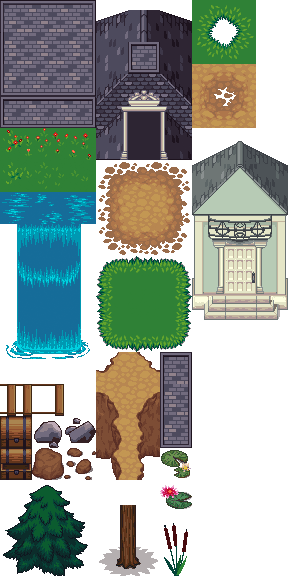
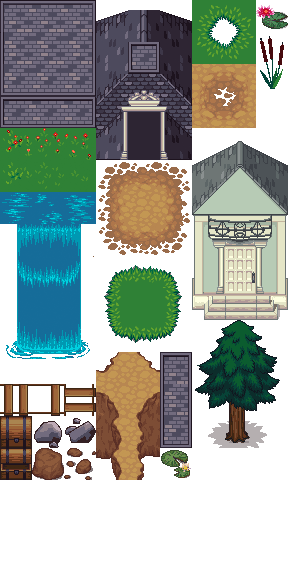
update asset and level 1 content

diff --git a/constants.js b/constants.js
@@ -63,30 +63,26 @@ const BACKGROUND_TILES = {
   36: [3, 4],
   37: [5, 4],
   38: [5, 14],
-  39: [0, 15],
-  40: [1, 15],
-  41: [2, 15],
-  42: [0, 16],
-  43: [1, 16],
-  44: [2, 16],
-  45: [0, 17],
-  46: [1, 17],
-  47: [2, 17],
-  48: [3, 15],
-  49: [4, 15],
-  50: [3, 16],
-  51: [4, 16],
-  52: [3, 17],
-  53: [4, 17],
-  54: [5, 15],
-  55: [5, 16],
-  56: [5, 17],
-  57: [3, 12],
-  58: [4, 12],
-  59: [3, 13],
-  60: [4, 13],
-  61: [5, 13],
-  62: [4, 13],
+  39: [1, 12],
+  40: [8, 0],
+  41: [8, 1],
+  42: [8, 2],
+  43: [3, 5],
+  44: [4, 5],
+  45: [5, 5],
+  46: [3, 6],
+  47: [5, 6],
+  48: [3, 7],
+  49: [4, 7],
+  50: [5, 7],
+  51: [3, 8],
+  52: [4, 8],
+  53: [5, 8],
+  54: [3, 9],
+  55: [5, 9],
+  56: [3, 10],
+  57: [4, 10],
+  58: [5, 10],
   A: [0, 0],
   B: [1, 0],
   C: [2, 0],
@@ -106,27 +102,9 @@ const BACKGROUND_TILES = {
   Q: [1, 5],
   R: [2, 5],
   S: [0, 12],
-  T: [1, 12],
-  U: [2, 12],
+  T: [2, 12],
   V: [4, 4],
-  W: [3, 5],
-  X: [4, 5],
-  Y: [5, 5],
-  Z: [3, 6],
-  a: [4, 6],
-  b: [5, 6],
-  c: [3, 7],
-  d: [4, 7],
-  e: [5, 7],
-  f: [3, 8],
-  g: [4, 8],
-  h: [5, 8],
-  i: [3, 9],
-  j: [4, 9],
-  k: [5, 9],
-  l: [3, 10],
-  m: [4, 10],
-  n: [5, 10],
+  W: [4, 6],
   o: [5, 11],
   p: [5, 12],
   q: [5, 13],
@@ -143,13 +121,13 @@ const BACKGROUND_TILES = {
 };
 
 const LEVELS = [
-  "0,m 2,m 1,m 0,m 2,n 0 2 1 0 1 2 0,Z a a a\n" +
-    "2 0 1 2 0,38 1 2 0 1 2 0 1,Z a a a a a\n" +
-    "0,g 1,g 2,g 0,g 1,g 2,g 0,h 1 2 0 1 2,Z a a a\n" +
-    "M,24 N,25 O,26 M o P 2,k 1 0 2 1 0,c 1,d 2,d,Z a\n" +
-    "27 28 29 O p Q 0,k,g 1,g 2,g 0,g 1,h 2 0 1,Z a\n" +
-    "30 31 32 N D K K C,20 Q o 1,k 1,15 0,16 2,Z,17 a\n" +
-    "33 34 35 M p P R p R D L 0,S 2,T 1,Z,U a\n" +
-    "36 V 37 O p Q P p P p 1,k 0 2 1,c 0,d 2,e\n" +
-    "J K K K H K K H K I 2,k 1 0 2 1 0 2"
+  "0 2 1 0 2 0 2 1 0,46 W W 0,W W W W\n" +
+    "2 0 1,40 2 0,38 1 2 0 1,46 W W 1,W W W W\n" +
+    "0,52 1,52 2,52 0,52 1,52 2,52 0,53 1 2,48 1,49,T 0,y 2,W W W W\n" +
+    "M,24 N,25 O,26 M o P 2,55 1 0 2,T 1,48 0,49 1,49 2,Z,y W\n" +
+    "27 28 29 O p Q 0,v 1,52 2,52 0,52,o 1,53 2 0 1,Z,46 W\n" +
+    "30 31 32 N D K K C,20 Q p 1,55 1,15 0,16 2,Z,17,46 W\n" +
+    "33 34 35 M p P R p R D L 0 2 1,Z,46 a,W\n" +
+    "36 V 37 O p Q P p P p 1,55 0 2,40 1,48 0,49 2\n" +
+    "J K K K H K K H K I 2,55 1 0 2 1 0 2"
 ];
